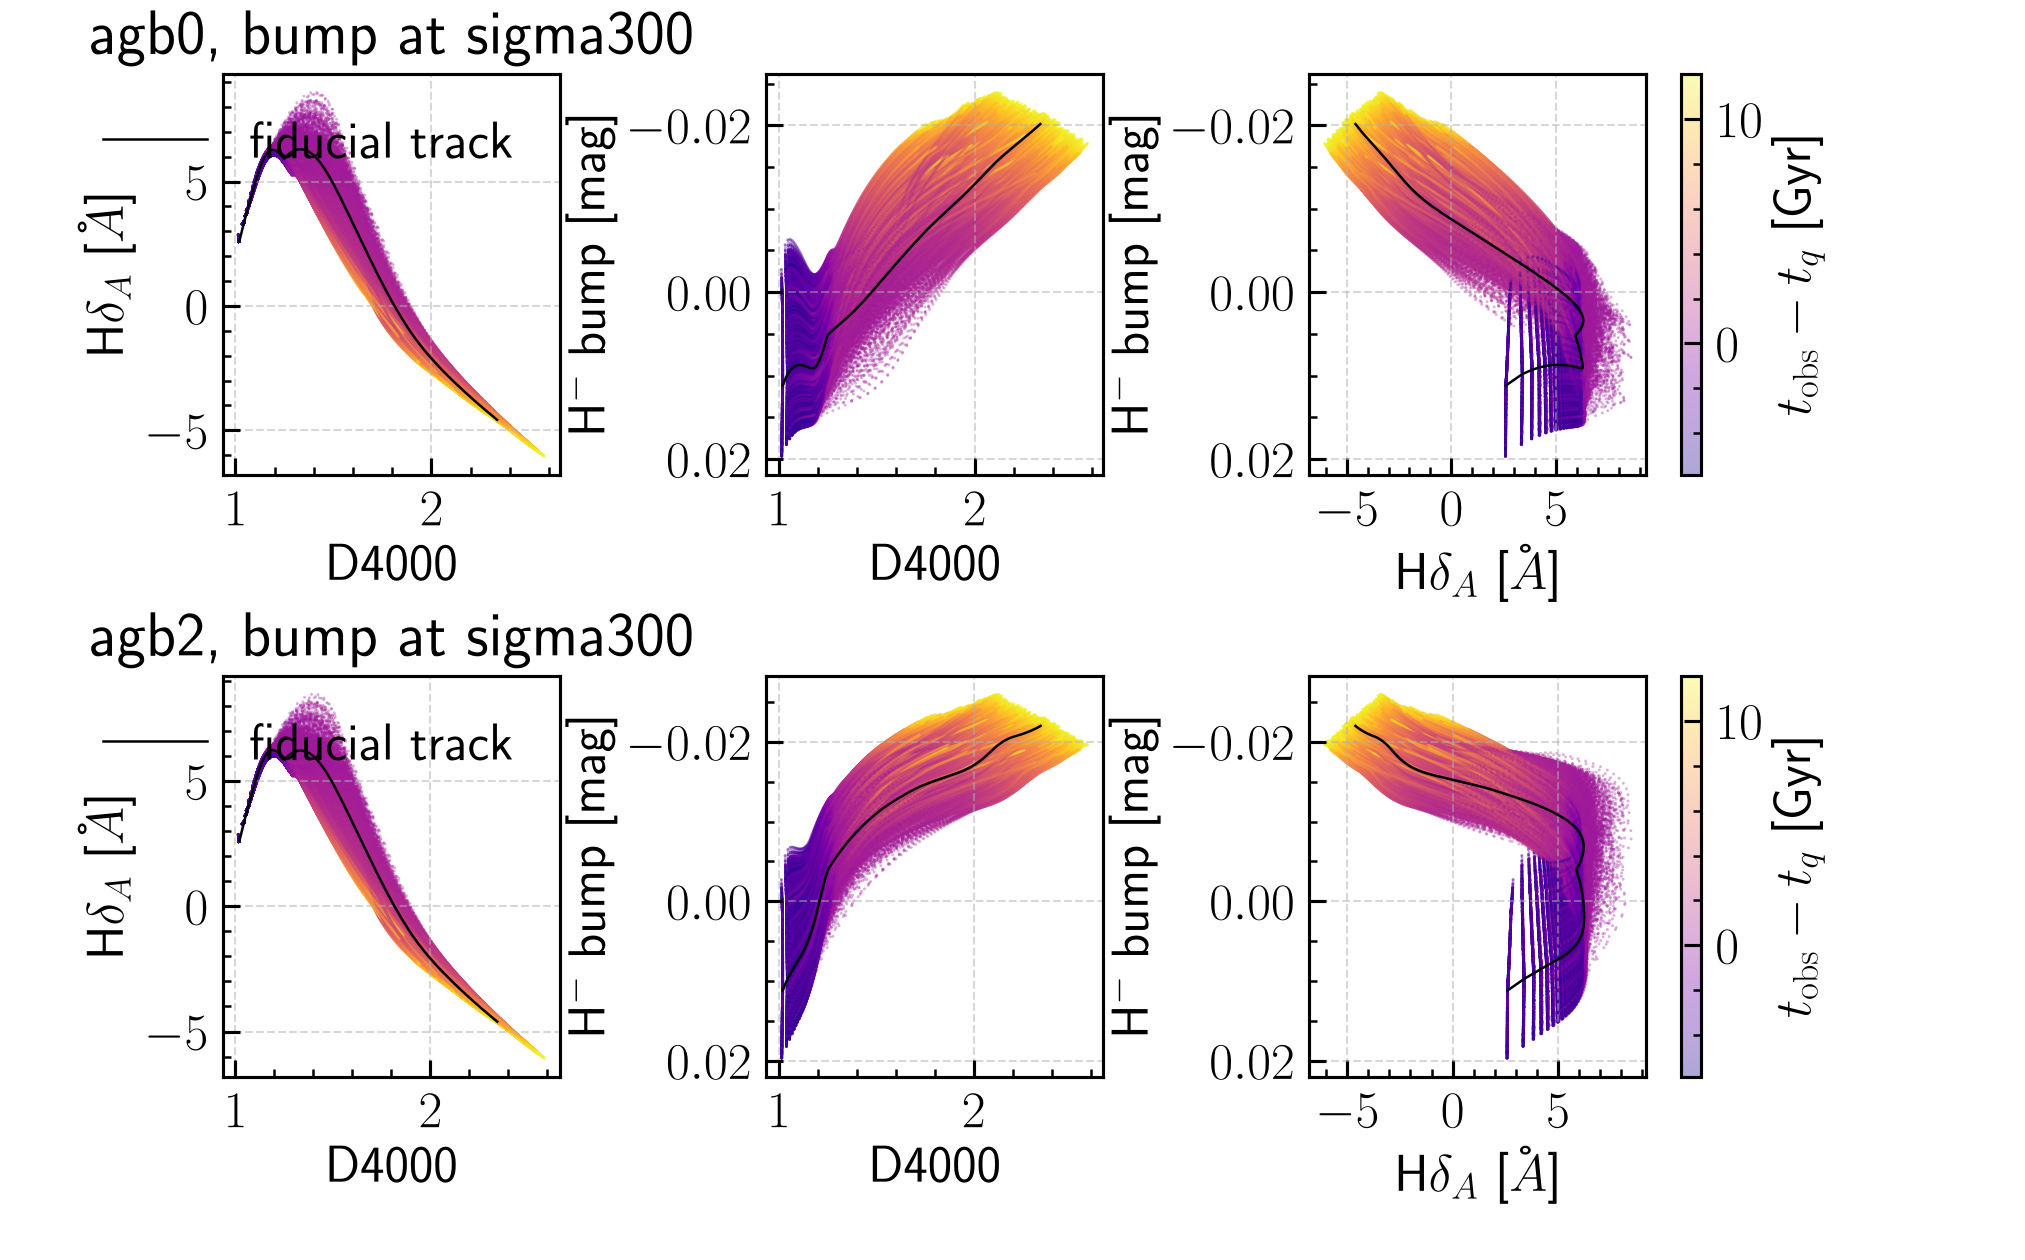
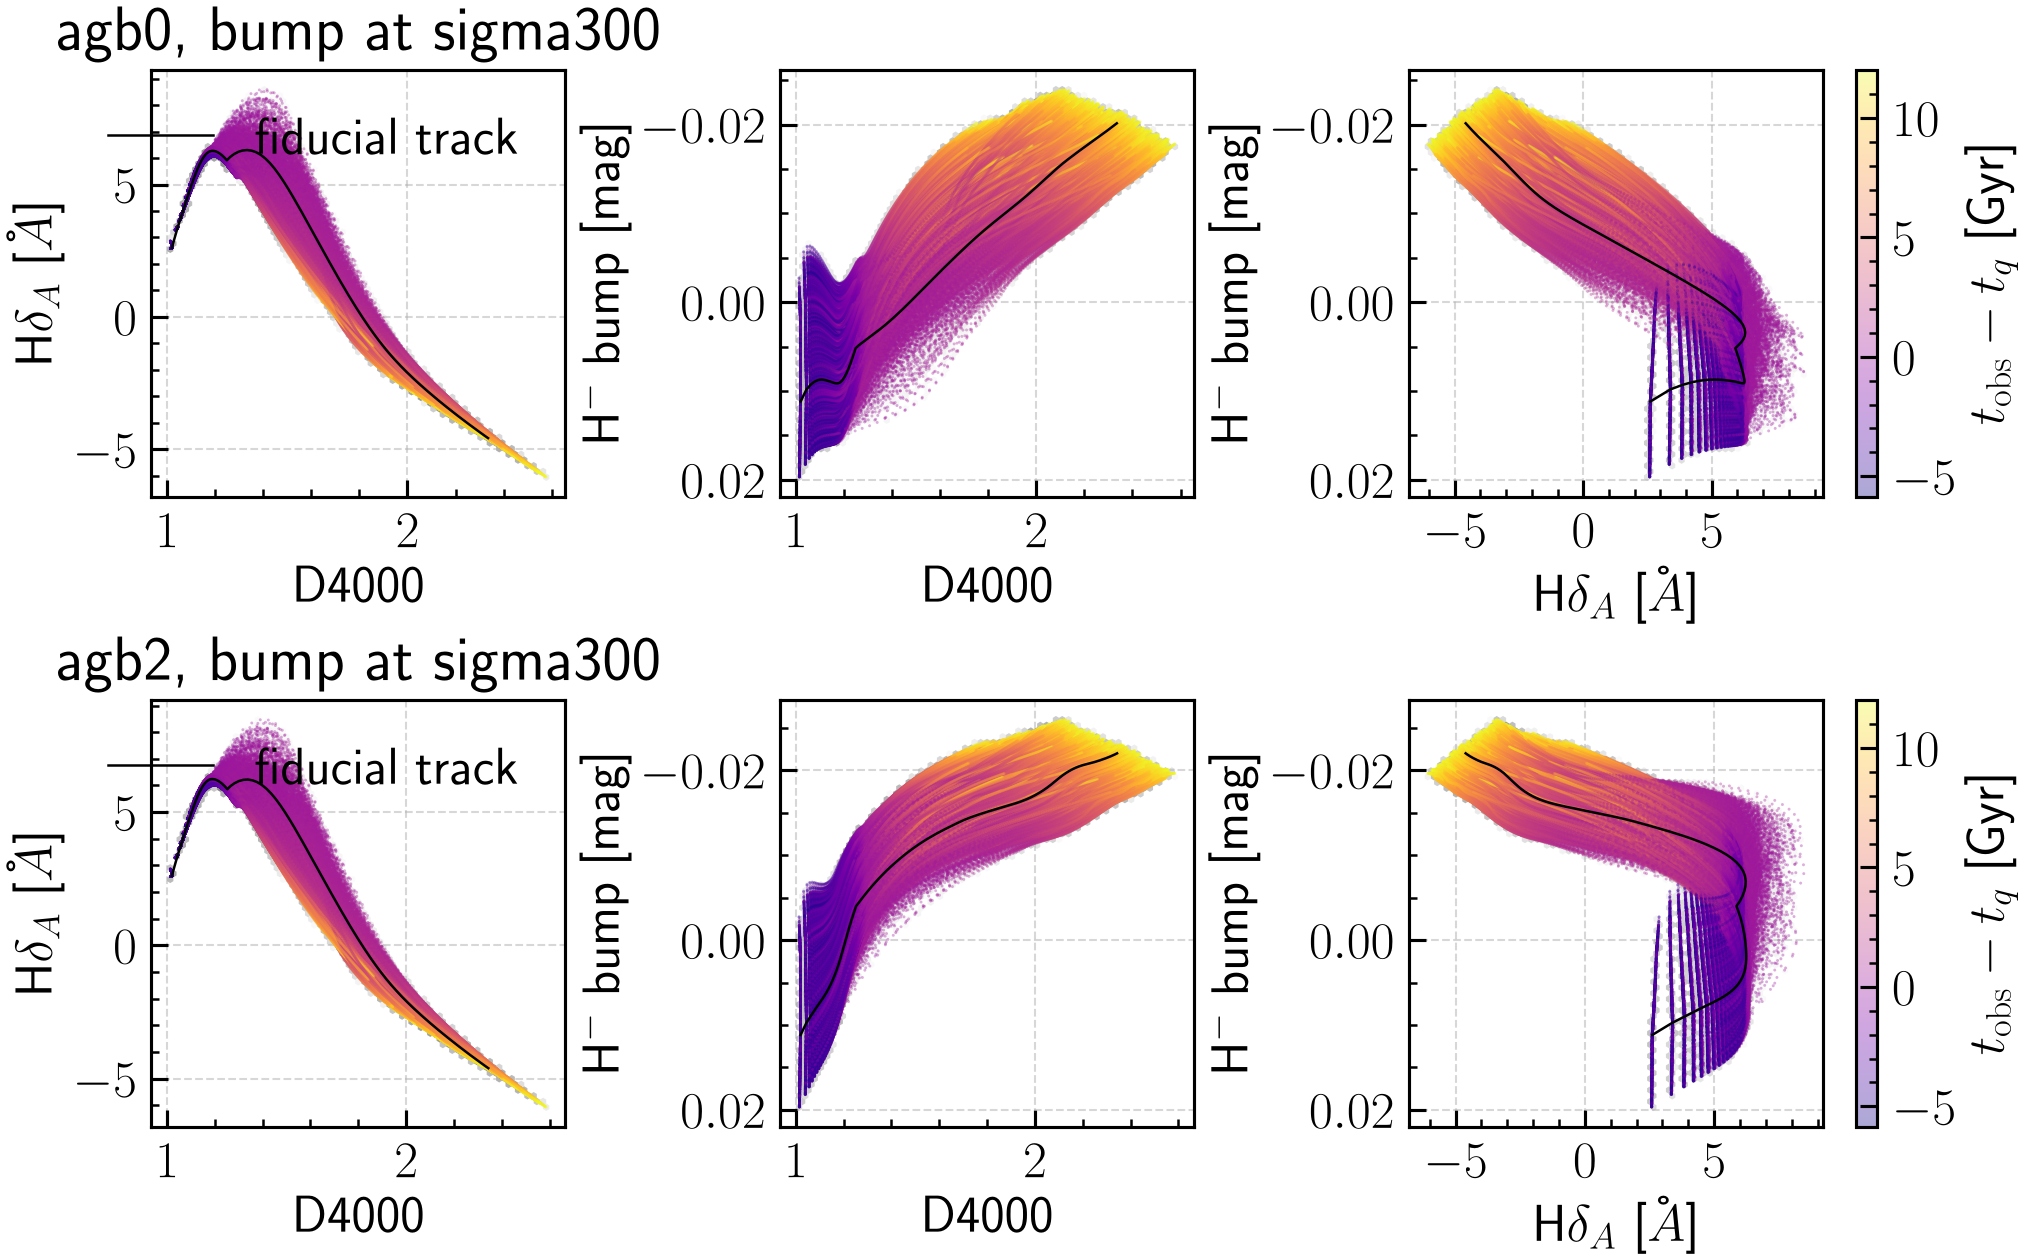
Add density hexbin and log-Z coloring to population index-plane figures
index_planes.plot_population now draws a gridsize-60, log-color-scale,
light-gray hexbin density plot first (zorder 1), under the colored
scatter (zorder 2) and the fiducial track (zorder 3), matching the spec's
"density plus scatter". new_plane_figure switches to
layout="constrained" and drops the manual tight_layout() call, which
also fixes the legend/label placement more robustly than the earlier
per-caller workarounds (verified: no overlap in the regenerated PNGs).

run_population._figure_planes takes a color_key/color_label/suffix so
the same helper draws both the time-since-quenching coloring and a new
log(Z/Zsun) coloring, written to index_planes_<product>_logz.png. Also
records grid_provenance per product (sigma300 and r100, not just
sigma300) in summary.json, since run_single_csp and the previous
Population summary discarded the smoothing-product provenance persisted
by the previous commit. A new --figures-only flag reloads
indices.npz/draws.npz (recomputing only the 8 s fiducial track) so the
figures can be redrawn without the ~5.5 minute full population run.

Regenerated with `run_single_csp.py` (cheap, cached grids, 2.9 s) and
`run_population.py --figures-only` (35 s): all four population PNGs and
the two Step-1 PNGs render cleanly under constrained layout, "fiducial
track" no longer collides with any axis label, and the log-Z coloring
visibly tracks the fan-shaped spread in the bump planes, supporting the
corrected docs/todo.md review claim.
[…]

diff --git a/stellar_pop/fsps_agb/run_population.py b/stellar_pop/fsps_agb/run_population.py
@@ -28,7 +28,9 @@ OUTPUT_DIR = Path(__file__).resolve().parent / "output" / "population"
 
 
 def specific_sfr_windows(edges_gyr, masses, epoch_index):
-    """sSFR over the last 100 Myr and over 100 to 1000 Myr before the epoch, per Gyr."""
+    """sSFR over the last 100 Myr and over 100 to 1000 Myr before the epoch, per Gyr,
+    normalized by the mass formed by t_obs (no return fraction), not the surviving
+    stellar mass."""
     t_obs = edges_gyr[epoch_index + 1]
     centers = 0.5 * (edges_gyr[:-1] + edges_gyr[1:])
     formed = masses[centers < t_obs].sum()
@@ -92,9 +94,17 @@ def _write_tables(table, draws, out_dir):
         writer.writerows(zip(*table.values(), strict=True))
 
 
-def _figure_planes(table, track, out_dir, bump_product):
+def _figure_planes(
+    table,
+    track,
+    out_dir,
+    bump_product,
+    color_key="time_since_quenching_gyr",
+    color_label=r"$t_{\rm obs} - t_q$ [Gyr]",
+    suffix="",
+):
     figure, axes = new_plane_figure(n_rows=2)
-    color = table["time_since_quenching_gyr"]
+    color = table[color_key]
     for row, agb_key in enumerate(("agb0", "agb2")):
         indices = {
             "d4000": table[f"d4000_{agb_key}"],
@@ -104,13 +114,13 @@ def _figure_planes(table, track, out_dir, bump_product):
         track_indices = dict(track[agb_key]["sigma300"]) | {
             "h_minus_bump": track[agb_key][bump_product]["h_minus_bump"]
         }
-        plot_population(axes[row], indices, color, r"$t_{\rm obs} - t_q$ [Gyr]", track_indices)
+        plot_population(axes[row], indices, color, color_label, track_indices)
         # plot_population's default loc="best" legend collides with the neighboring
         # panel's rotated y-axis label in the narrow gap between subplots; the
         # top-right corner of the D4000-HdeltaA panel is empty of data points.
         axes[row, 0].legend(frameon=False, loc="upper right")
         axes[row, 0].set_title(f"{agb_key}, bump at {bump_product}")
-    figure.savefig(out_dir / f"index_planes_{bump_product}.png", dpi=150)
+    figure.savefig(out_dir / f"index_planes_{bump_product}{suffix}.png", dpi=150)
     plt.close(figure)
 
 
@@ -121,7 +131,31 @@ def main():
     parser.add_argument("--n-draws", type=int, default=N_DRAWS)
     parser.add_argument("--seed", type=int, default=SEED)
     parser.add_argument("--pilot", action="store_true", help="10 histories, 10 epochs, timing only")
+    parser.add_argument(
+        "--figures-only",
+        action="store_true",
+        help="redraw figures from the existing indices.npz/draws.npz, no table recomputation",
+    )
     args = parser.parse_args()
+    out_dir = Path(args.out_dir)
+    if args.figures_only:
+        start = time.perf_counter()
+        with np.load(out_dir / "indices.npz") as data:
+            table = {key: data[key] for key in data.files}
+        track = compute_track_indices(args.grid_dir, **FIDUCIAL)
+        for bump_product in ("sigma300", "r100"):
+            _figure_planes(table, track, out_dir, bump_product)
+            _figure_planes(
+                table,
+                track,
+                out_dir,
+                bump_product,
+                color_key="log_z",
+                color_label=r"$\log(Z/Z_\odot)$",
+                suffix="_logz",
+            )
+        print(f"redrew figures in {out_dir} in {time.perf_counter() - start:.1f} s")
+        return
     start = time.perf_counter()
     grids = {product: load_ssp_grid(args.grid_dir, product) for product in ("sigma300", "r100")}
     edges = time_bin_edges()
@@ -136,17 +170,25 @@ def main():
         per_history_epoch = elapsed / (n_draws * (edges.size - 1))
         print(f"extrapolated full run: {per_history_epoch * N_DRAWS * 260 / 60:.1f} min")
         return
-    out_dir = Path(args.out_dir)
     _write_tables(table, draws, out_dir)
     track = compute_track_indices(args.grid_dir, **FIDUCIAL)
     for bump_product in ("sigma300", "r100"):
         _figure_planes(table, track, out_dir, bump_product)
+        _figure_planes(
+            table,
+            track,
+            out_dir,
+            bump_product,
+            color_key="log_z",
+            color_label=r"$\log(Z/Z_\odot)$",
+            suffix="_logz",
+        )
     summary = {
         "n_draws": n_draws,
         "seed": args.seed,
         "n_epochs": int(edges.size - 1),
         "elapsed_s": elapsed,
-        "grid_provenance": grids["sigma300"].provenance,
+        "grid_provenance": {product: grid.provenance for product, grid in grids.items()},
     }
     (out_dir / "summary.json").write_text(json.dumps(summary, indent=2, default=str) + "\n")
     print(f"wrote {out_dir} in {time.perf_counter() - start:.1f} s")

diff --git a/stellar_pop/fsps_agb/index_planes.py b/stellar_pop/fsps_agb/index_planes.py
@@ -14,14 +14,15 @@ INVERTED_AXES = ("h_minus_bump",)
 
 
 def new_plane_figure(n_rows=1):
-    figure, axes = plt.subplots(n_rows, 3, figsize=(13.5, 4.2 * n_rows), squeeze=False)
+    figure, axes = plt.subplots(
+        n_rows, 3, figsize=(13.5, 4.2 * n_rows), squeeze=False, layout="constrained"
+    )
     for row in axes:
         for axis, (x_key, y_key) in zip(row, PLANES, strict=True):
             axis.set_xlabel(AXIS_LABELS[x_key])
             axis.set_ylabel(AXIS_LABELS[y_key])
             if y_key in INVERTED_AXES and not axis.yaxis_inverted():
                 axis.invert_yaxis()
-    figure.tight_layout()
     return figure, axes
 
 
@@ -42,6 +43,17 @@ def plot_track(axes, indices, color_values, color_label, cmap="viridis"):
 def plot_population(axes, indices, color_values, color_label, track_indices=None, cmap="plasma"):
     mappable = None
     for axis, (x_key, y_key) in zip(axes, PLANES, strict=True):
+        axis.hexbin(
+            indices[x_key],
+            indices[y_key],
+            gridsize=60,
+            cmap="Greys",
+            bins="log",
+            mincnt=1,
+            alpha=0.5,
+            linewidths=0.0,
+            zorder=1,
+        )
         mappable = axis.scatter(
             indices[x_key],
             indices[y_key],
@@ -51,6 +63,7 @@ def plot_population(axes, indices, color_values, color_label, track_indices=None
             cmap=cmap,
             linewidths=0,
             rasterized=True,
+            zorder=2,
         )
         if track_indices is not None:
             axis.plot(
@@ -59,6 +72,7 @@ def plot_population(axes, indices, color_values, color_label, track_indices=None
                 color="black",
                 lw=1.2,
                 label="fiducial track",
+                zorder=3,
             )
     axes[-1].figure.colorbar(mappable, ax=list(axes), label=color_label, pad=0.02)
     if track_indices is not None:

diff --git a/stellar_pop/fsps_agb/README.md b/stellar_pop/fsps_agb/README.md
@@ -160,7 +160,7 @@ for the implementation plan.
 | `cross_check_fsps_tabular.py` | Cross-check the integrator against FSPS's own tabular SFH (`sfh=3`) at a handful of epochs. |
 | `index_planes.py` | Shared figure helpers for the three 2-D index planes. |
 | `run_single_csp.py` | Step 1 driver: fiducial CSP track, index table, FSPS cross-check, figures. |
-| `run_population.py` | Step 2 driver: population of quenching histories, index table, figures. |
+| `run_population.py` | Step 2 driver: population of quenching histories, index table (sSFR normalized by mass formed by `t_obs`, not surviving stellar mass — no return fraction), figures. |
 | `tests/test_*.py` | Unit tests per module; FSPS-dependent tests marked `slow`. |
 
 ### Running
